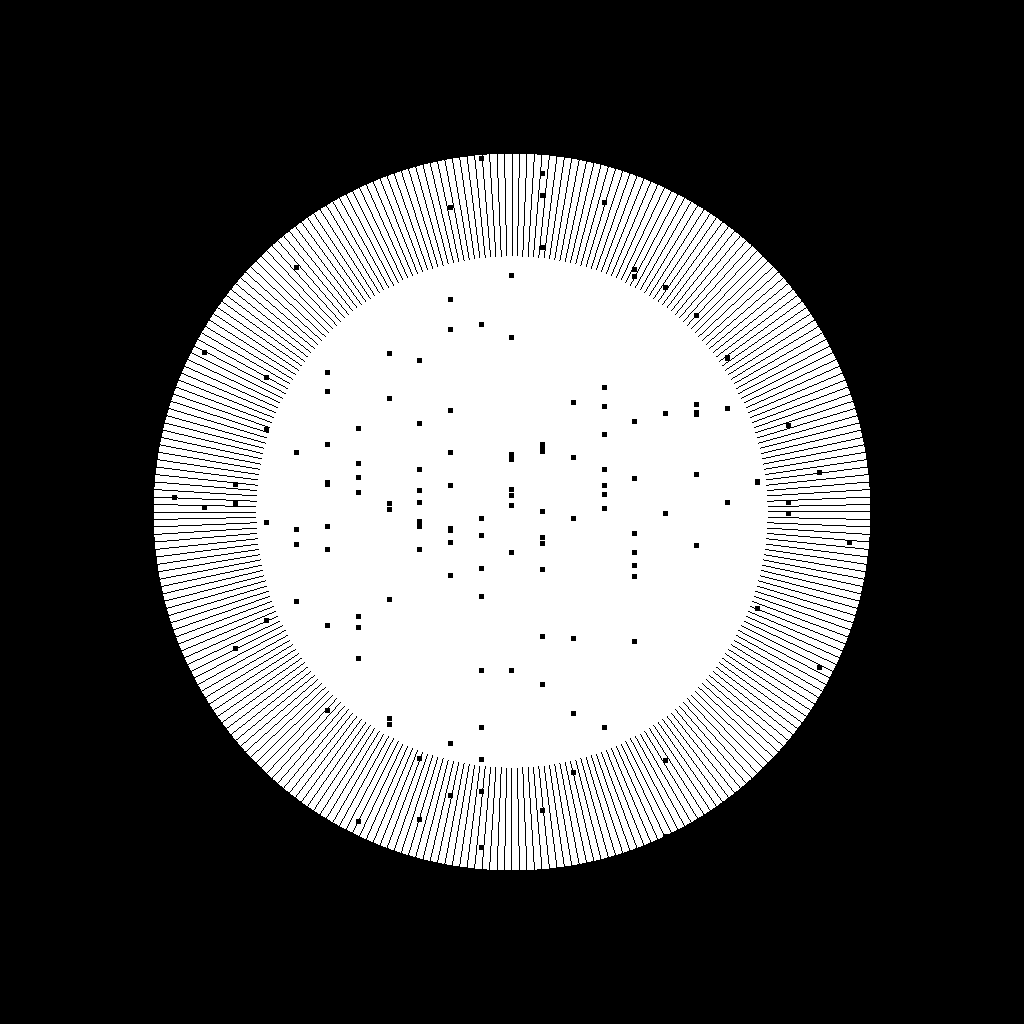
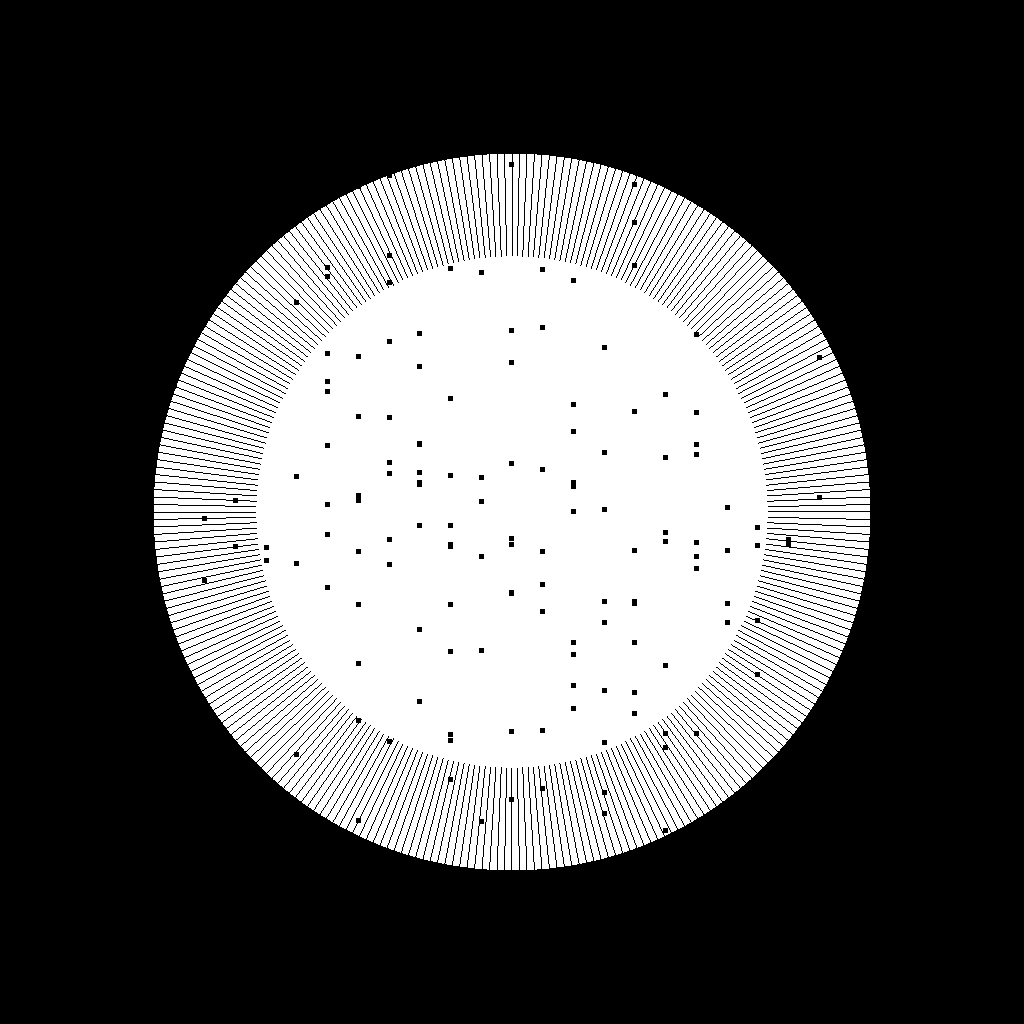
fourier show in first row error

diff --git a/PhysicallyBasedRendering/MyMath.cpp b/PhysicallyBasedRendering/MyMath.cpp
@@ -1,62 +1,36 @@
 #include "MyMath.h"
 
-const double PI = 3.141592653589793238460;
-
-void FastFourierTransform(ComplexArray& x)
-{
-	const size_t N = x.size();
-	if (N <= 1) return;
-
-	// slice(offset, size, stride)
-	ComplexArray even = x[std::slice(0, N / 2, 2)];
-	ComplexArray odd = x[std::slice(1, N / 2, 2)];
-	
-	FastFourierTransform(even);
-	FastFourierTransform(odd);
-
-	for (int i = 0; i < N / 2; i++)
-	{
-		// polar(radius, theta)
-		// real + imag
-		Complex t = std::polar(1.0, -2 * PI*i / N) * odd[i];
-		x[i] = even[i] + t;
-		x[i + N / 2] = even[i] - t;
-	}
-}
-
-void FastFourierTransform(ComplexArray2D& x)
-{
-	//const size_t N = x.size();
-	//if (N <= 1) return;
-
-	//// slice(offset, size, stride)
-	//ComplexArray even = x[std::slice(0, N / 2, 2)];
-	//ComplexArray odd = x[std::slice(1, N / 2, 2)];
-
-	//FastFourierTransform(even);
-	//FastFourierTransform(odd);
-
-	//for (int i = 0; i < N / 2; i++)
-	//{
-	//	// polar(radius, theta)
-	//	// real + imag
-	//	Complex t = std::polar(1.0, -2 * PI*i / N) * odd[i];
-	//	x[i] = even[i] + t;
-	//	x[i + N / 2] = even[i] - t;
-	//}
-}
-
-void InverseFastFourierTransform(ComplexArray& x)
-{
-	x = x.apply(std::conj);
-
-	FastFourierTransform(x);
-
-	x = x.apply(std::conj);
-
-	x /= x.size();
-}
-
-void InverseFastFourierTransform(ComplexArray2D & x)
-{
-}
+//const double PI = 3.141592653589793238460;
+//
+//void FastFourierTransform(ComplexArray& x)
+//{
+//	const size_t N = x.size();
+//	if (N <= 1) return;
+//
+//	// slice(offset, size, stride)
+//	ComplexArray even = x[std::slice(0, N / 2, 2)];
+//	ComplexArray odd = x[std::slice(1, N / 2, 2)];
+//	
+//	FastFourierTransform(even);
+//	FastFourierTransform(odd);
+//
+//	for (int i = 0; i < N / 2; i++)
+//	{
+//		// polar(radius, theta)
+//		// real + imag
+//		Complex t = std::polar(1.0, -2 * PI*i / N) * odd[i];
+//		x[i] = even[i] + t;
+//		x[i + N / 2] = even[i] - t;
+//	}
+//}
+//
+//void InverseFastFourierTransform(ComplexArray& x)
+//{
+//	x = x.apply(std::conj);
+//
+//	FastFourierTransform(x);
+//
+//	x = x.apply(std::conj);
+//
+//	x /= x.size();
+//}

diff --git a/PhysicallyBasedRendering/FourierTransform.cpp b/PhysicallyBasedRendering/FourierTransform.cpp
@@ -1,6 +1,8 @@
 #include "FourierTransform.h"
 #include "Texture2D.h"
 
+#include "Debug.h"
+
 float * FourierTransform::fourierTransform2D(const int width, const int height, float * f)
 {
 	return nullptr;
@@ -21,23 +23,35 @@ Texture2D FourierTransform::fourierTransform2D(const Texture2D& inputTexture)
 
 	for (int i = 0; i < width * height; ++i)
 	{
+		F[i][0] = 0.0f;
+		F[i][1] = 0.0f;
+
 		f[i][0] = inArray[i * 4];
+		f[i][1] = 0.0f;
 	}
 
 	fftw_plan p = fftw_plan_dft_2d(width, height, f, F, FFTW_FORWARD, FFTW_ESTIMATE);
 	fftw_execute(p);
 	fftw_destroy_plan(p);
 
-	/*F[i][0] = F[i][0] * F[i][0];
-	F[i][0] /= (lambda * lambda * d * d);*/
-
 	for (int i = 0; i < width * height; ++i)
 	{
-		float value = F[i][0] * F[i][0] / ((0.01f*0.1f)*(0.01f*0.1f));
-		outArray[i * 4 + 0] = value;
-		outArray[i * 4 + 1] = value;
-		outArray[i * 4 + 2] = value;
-		outArray[i * 4 + 3] = 1.0f;
+		F[i][0] = F[i][0] / (float)(width*height);
+	}
+
+	for (int i = 0; i < width*height; ++i)
+	{
+		float re = F[i][0];
+		float mag = sqrt(re*re);
+		float value = mag;
+
+		//const int index = (i * 4 + (width*height) / 2) % (width*height);
+		const int index = i * 4;
+
+		outArray[index + 0] = value;
+		outArray[index + 1] = value;
+		outArray[index + 2] = value;
+		outArray[index + 3] = 1.0f;
 	}
 
 	outputTexture.LoadTexture(
@@ -47,6 +61,9 @@ Texture2D FourierTransform::fourierTransform2D(const Texture2D& inputTexture)
 		GL_RGBA, 
 		GL_FLOAT);
 	outputTexture.UpdateTexture(outArray, GL_RGBA, GL_FLOAT);
+
+	/*fftw_free(f);
+	fftw_free(F);*/
 
 	return outputTexture;
 }

diff --git a/PhysicallyBasedRendering/MyMath.h b/PhysicallyBasedRendering/MyMath.h
@@ -1,16 +1,16 @@
-#pragma once
-
-#include <valarray>
-#include <complex>
-#include <iostream>
-#include <fftw3.h>
-
-using Complex = std::complex<double>;
-using ComplexArray = std::valarray<Complex>;
-using ComplexArray2D = std::valarray<std::valarray<Complex>>;
-
-void FastFourierTransform(ComplexArray& x);
-void FastFourierTransform(ComplexArray2D& x);
-
-void InverseFastFourierTransform(ComplexArray& x);
-void InverseFastFourierTransform(ComplexArray2D& x);
+//#pragma once
+//
+//#include <valarray>
+//#include <complex>
+//#include <iostream>
+//#include <fftw3.h>
+//
+//using Complex = std::complex<double>;
+//using ComplexArray = std::valarray<Complex>;
+//using ComplexArray2D = std::valarray<std::valarray<Complex>>;
+//
+//void FastFourierTransform(ComplexArray& x);
+//void FastFourierTransform(ComplexArray2D& x);
+//
+//void InverseFastFourierTransform(ComplexArray& x);
+//void InverseFastFourierTransform(ComplexArray2D& x);

diff --git a/PhysicallyBasedRendering/StarBurstRenderer.cpp b/PhysicallyBasedRendering/StarBurstRenderer.cpp
@@ -54,13 +54,17 @@ void StarBurstRenderer::InitializeRender()
 	worldMap.LoadTexture(
 		GL_RGB16F,
 		WindowManager::GetInstance()->width,
-		WindowManager::GetInstance()->height);
+		WindowManager::GetInstance()->height,
+		GL_RGB,
+		GL_FLOAT);
 	worldMap.SetParameters(GL_LINEAR, GL_LINEAR, GL_CLAMP_TO_EDGE, GL_CLAMP_TO_EDGE);
 
 	brightMap.LoadTexture(
 		GL_RGB16F,
 		WindowManager::GetInstance()->width,
-		WindowManager::GetInstance()->height);
+		WindowManager::GetInstance()->height,
+		GL_RGB,
+		GL_FLOAT);
 	brightMap.SetParameters(GL_LINEAR, GL_LINEAR, GL_CLAMP_TO_EDGE, GL_CLAMP_TO_EDGE);
 
 	worldFBO.BindTexture(GL_COLOR_ATTACHMENT0, GL_TEXTURE_2D, &worldMap);

diff --git a/PhysicallyBasedRendering/Texture.cpp b/PhysicallyBasedRendering/Texture.cpp
@@ -23,16 +23,6 @@ void Texture::LoadTexture(const GLint& internalformat, const GLsizei& width, con
 	this->height = height;
 }
 
-void Texture::LoadTexture(const GLint& internalformat, const GLsizei& width, const GLsizei& height)
-{
-	glGenTextures(1, &texture);
-	glBindTexture(GL_TEXTURE_2D, texture);
-	glTexImage2D(GL_TEXTURE_2D, 0, internalformat, width, height, 0, GL_RGB, GL_FLOAT, 0);
-	this->internalformat = internalformat;
-	this->width = width;
-	this->height = height;
-}
-
 void Texture::LoadTexture(const string& s)
 {
 	glGenTextures(1, &texture);

diff --git a/PhysicallyBasedRendering/Texture.h b/PhysicallyBasedRendering/Texture.h
@@ -32,11 +32,6 @@ public:
 	void LoadTexture(const string& s);
 	void LoadTextureDDS(const string& s);
 	void LoadTexture(
-		const GLint& internalformat, 
-		const GLsizei& width, 
-		const GLsizei& height);
-
-	void LoadTexture(
 		const GLint& internalformat,
 		const GLsizei& width,
 		const GLsizei& height,
